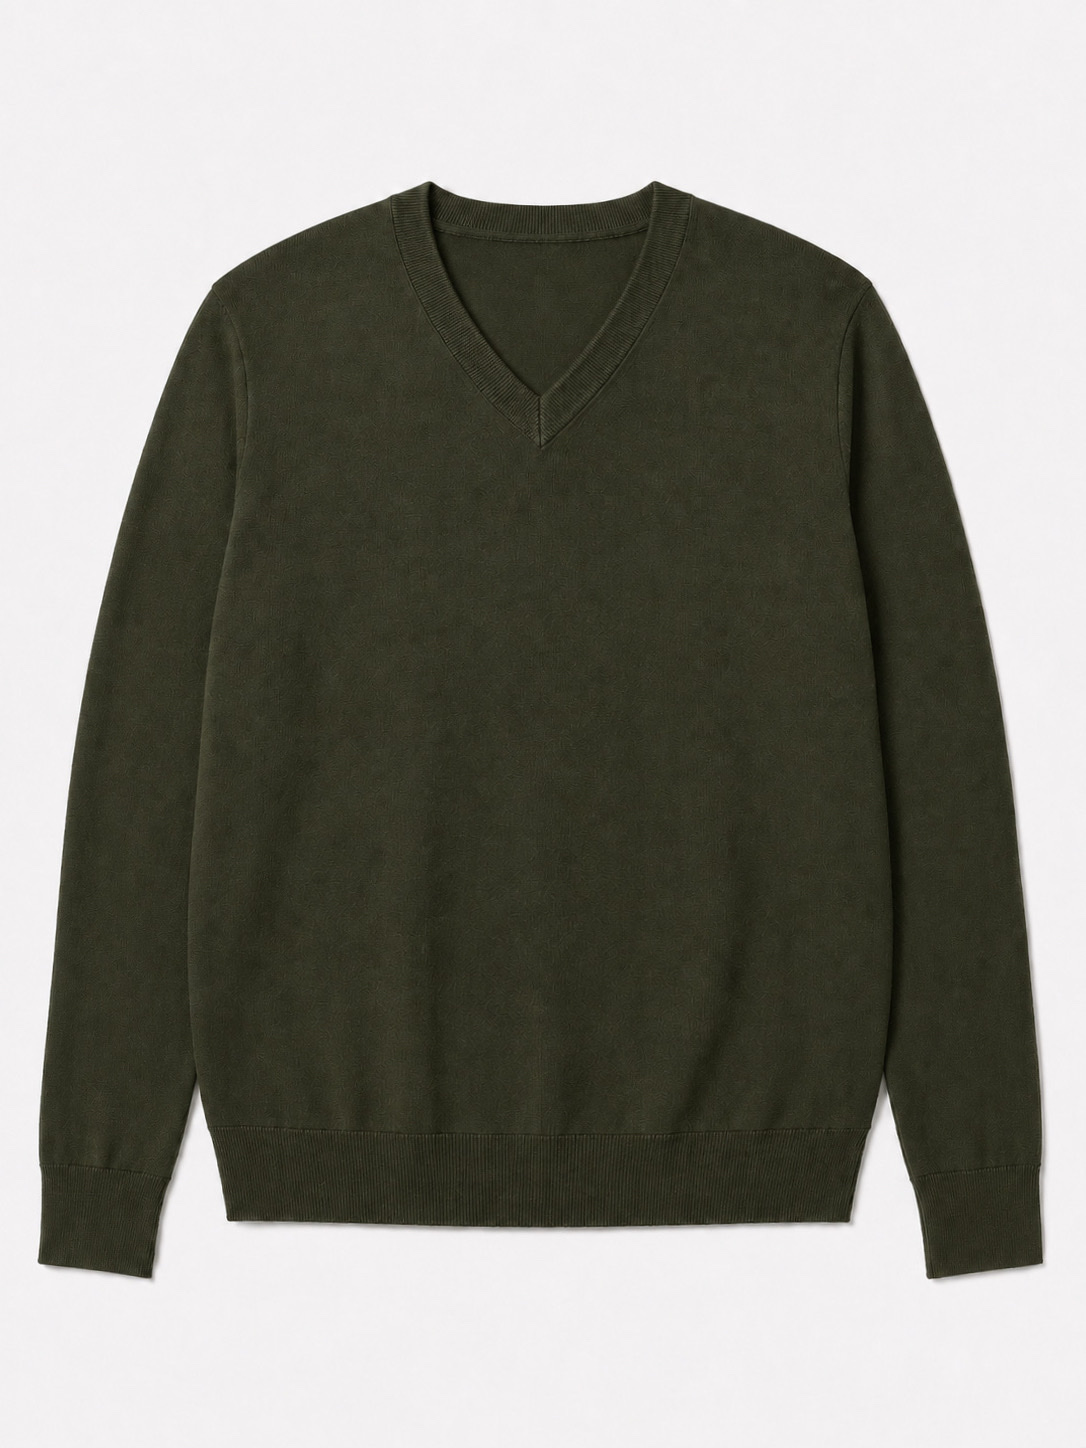
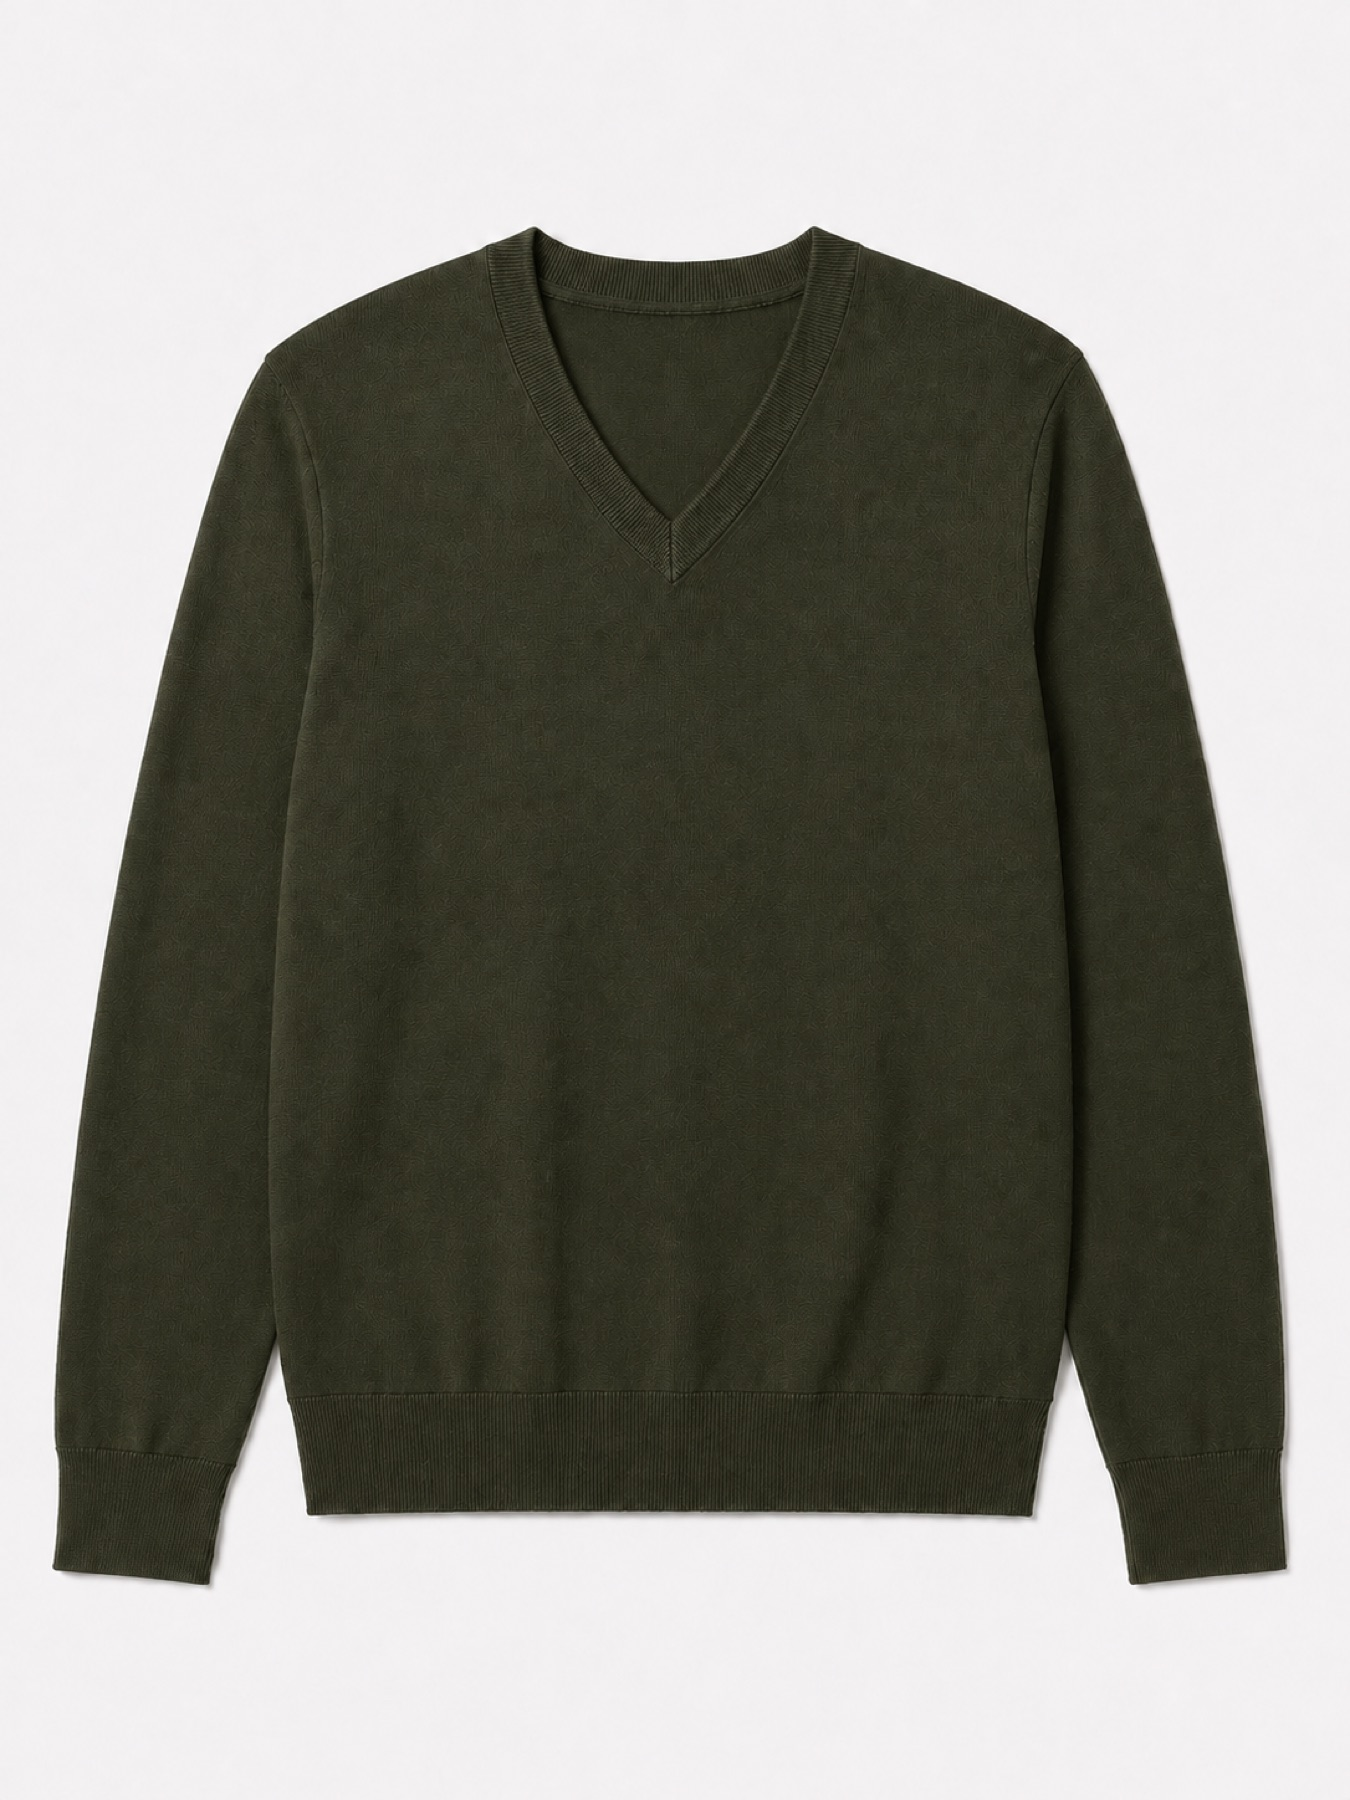
Actualiza fotos de pack B escote V

diff --git a/script.js b/script.js
@@ -1399,7 +1399,7 @@ Object.entries(winterImageAdditionsByProductId).forEach(([productId, photoNumber
   ])].sort((a, b) => a - b);
 });
 
-const IMAGE_ASSET_VERSION = "20260827-04";
+const IMAGE_ASSET_VERSION = "20260827-05";
 
 const PRODUCTION_2027_IMAGE_SOURCE_BY_PRODUCT_ID = {
   118: 48,  // Merano

diff --git a/index.html b/index.html
@@ -232,6 +232,6 @@
     <a href="#catalogo">Volver al catálogo</a>
   </footer>
 
-  <script src="script.js?v=20260827-04"></script>
+  <script src="script.js?v=20260827-05"></script>
 </body>
 </html>
